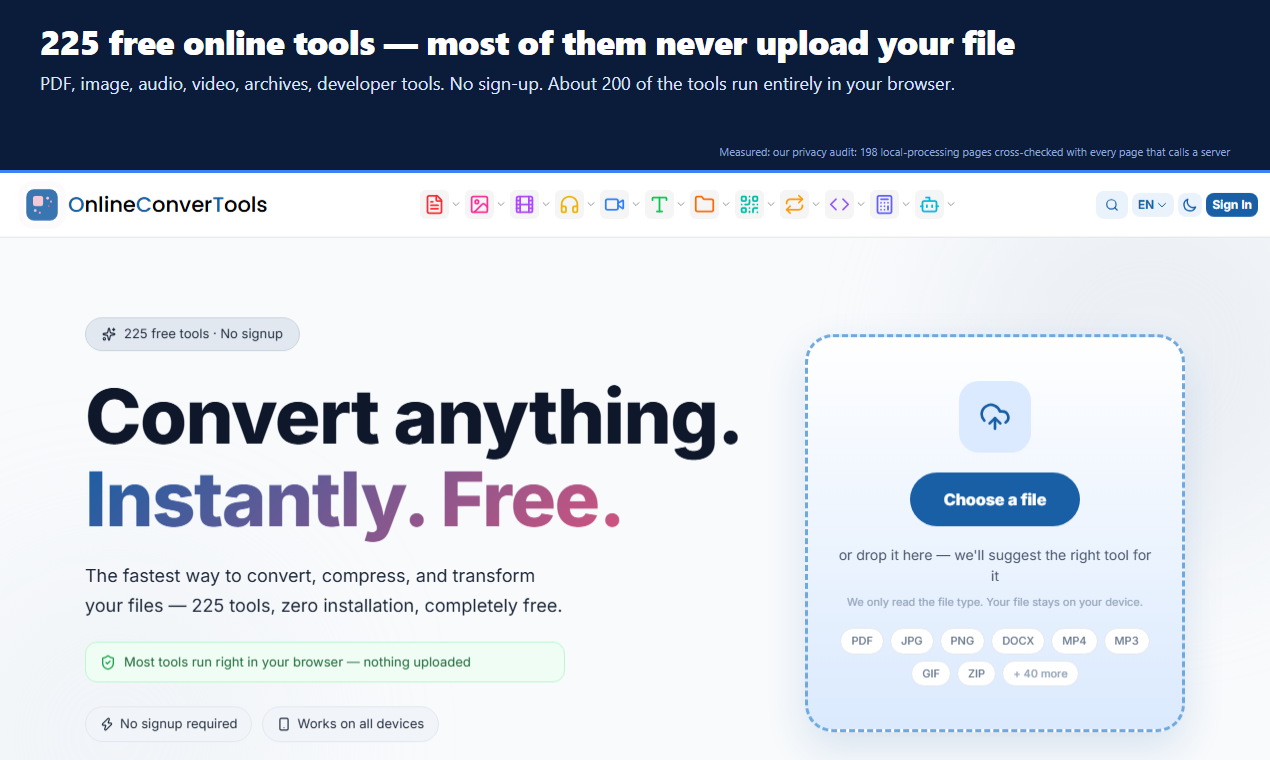
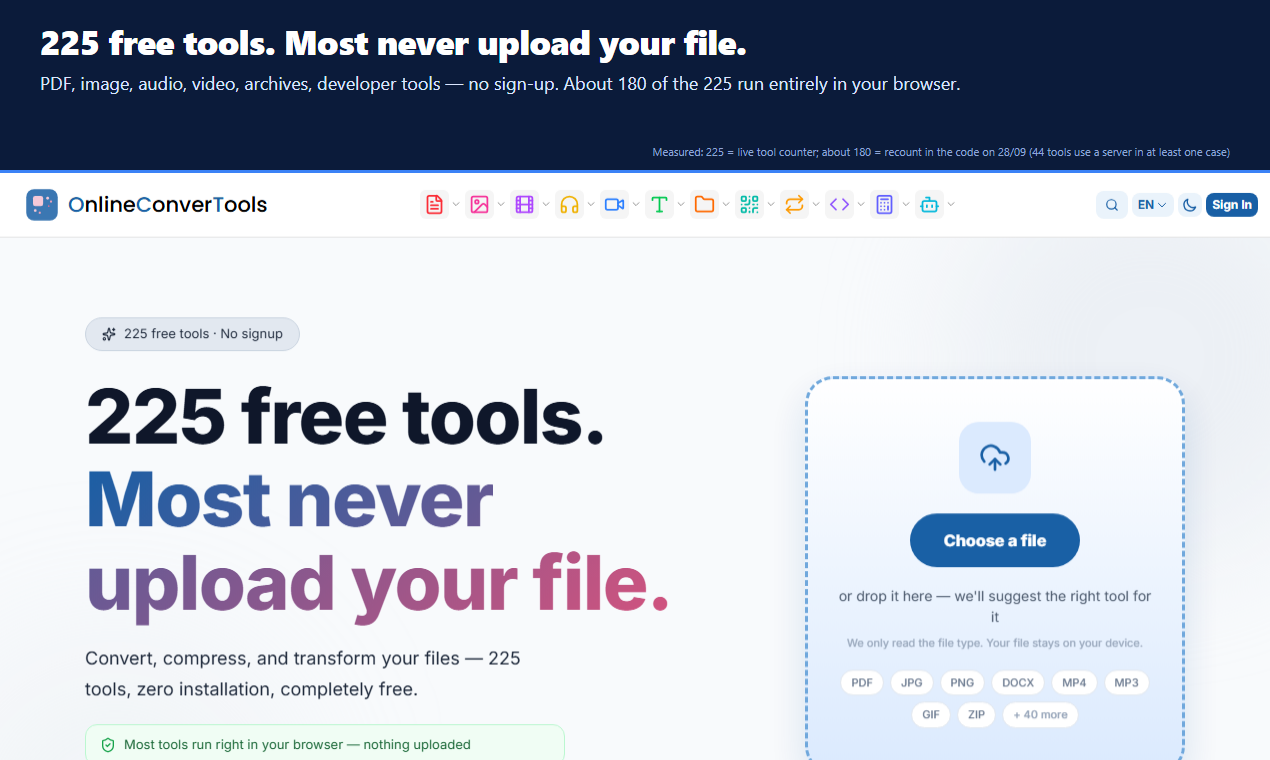
docs(lancement, point 2): kit Product Hunt prêt à l'emploi
Règles relues en direct (tagline 60, description 260/500 contradictoires → 227, galerie 1270×760, vignette 240×240, YouTube seul, 00 h 01 PT), 4 lancements comparables et leur moyen, textes anglais (tagline validée, description, premier commentaire avec passages personnels marqués, 8 légendes). Galerie refaite depuis le build local : 8 images dont la preuve « never upload » mesurée pendant la capture (0 requête d'envoi) et le compteur lu en direct (225).

diff --git a/docs/lancement/product-hunt.md b/docs/lancement/product-hunt.md
@@ -1,0 +1,107 @@
+# Kit Product Hunt — prêt à l'emploi (29/09/2026)
+
+**Document de contenu.** Il remplace `03-textes-en.md` (textes) et complète `01-recherche-lancements.md` (lancements de 2015-2026 déjà étudiés). Rien n'est publié. Les passages entre **⟦crochets doubles⟧** sont personnels : le propriétaire les écrit ou les ajuste, Claude n'a inventé aucun fait personnel. **Aucune date de lancement n'est proposée ici** (règle absolue du propriétaire : pas de date tant que le site n'est pas fiable à 100 % et audité).
+
+---
+
+## 1. Règles et formats actuels — relevés en direct le 29/09/2026
+
+Sources : **A** = `producthunt.com/launch/preparing-for-launch` (page officielle « Prepare for your launch ») ; **B** = `help.producthunt.com/en/articles/479557-how-to-post-a-product` (centre d'aide officiel).
+
+| Élément | Règle relevée | Ce que nous faisons |
+|---|---|---|
+| Nom | le nom du produit seul, **sans description ni émoji** (A, B) | `OnlineConverTools` |
+| Tagline | **60 caractères au plus** (A) ; « sans gimmick ni langage excessif » (A) | 44 caractères |
+| Description | **500** caractères (A) **ou 260** (B) : les deux pages officielles se contredisent toujours | **≤ 260** (tient dans les deux) : 227 |
+| Vignette | carrée, **240 × 240** recommandé, **< 3 Mo** ; GIF permis, s'anime au survol, première image = vignette (A, B) | `galerie/thumbnail.png` 240×240 |
+| Galerie | **1270 × 760** recommandé ; **au moins 2 images** pour que la fiche soit visible ; réordonnable ; GIF animés permis (A, B) | 8 images 1270×760, 71-200 Ko chacune |
+| Vidéo | **YouTube seulement**, adresse complète (pas de lien raccourci), vidéo non privée (A, B) ; ≈ 53 % des « produits du jour » depuis 2021 en avaient une (A) | **aucune pour l'instant** (voir §6) |
+| Premier commentaire | « très recommandé » ; **70 %** des produits du jour/semaine/mois en avaient un ; fonctionnalités, public, histoire, demande de retours ; **ne jamais demander de votes, demander des retours** (A) | brouillon §4 |
+| Heure | classement sur 24 h, **heure du Pacifique** ; lancer à **00 h 01 PST** (A, B) ; programmation jusqu'à **1 mois** à l'avance, ou brouillon (A, B) | 00 h 01 PT = **3 h 01 à Montréal** |
+| Jour | officiel : « quand vous êtes prêt », selon l'audience (A) ; étude tierce de 50 lancements (uprowshub.com, 2026) : **mardi 32 %** et **mercredi 26 %** des top 5 ; **0 % de top 5 après 6 h PT** | à choisir par le propriétaire le moment venu |
+| Topics | « quelques-uns, ceux qui collent le mieux » (B) ; 3 au plus (A, lu le 28/09) | Productivity, Developer Tools, Privacy |
+| Lien du produit | **pas de lien raccourci ni de paramètre de suivi (UTM)** (A) | `https://www.onlineconvertools.com` |
+| Doublon | ne pas republier le même produit sans changement **dans les 6 mois** (A) | premier lancement |
+
+## 2. Lancements comparables — ce qui a marché, et par quel moyen
+
+Complète le tableau de `01-recherche-lancements.md` (remove.bg, CloudConvert, Photopea, ezGIF…). Relevés sur les pages Product Hunt le 28-29/09/2026.
+
+| Produit | Date | Résultat | Moyen observé |
+|---|---|---|---|
+| **TabTasker** — « Zero servers. Total privacy. Your new favorite toolbox. » | 31/05/2026 | **n° 4 du jour, 236 points** | le traitement local EST l'argument, jusque dans la tagline ; le premier commentaire donne **une preuve que le lecteur peut refaire** (onglet Réseau : aucun envoi) et nomme la technique (WebAssembly, ONNX dans le navigateur) ; réponses techniques détaillées dans le fil ; 5 captures, **une par outil**, pas de vidéo |
+| **10015 Tools** — « All Online Tools in One Box » | 2024 | **n° 4 du jour, 307 points** | premier commentaire : **problème personnel** (outils en ligne mal faits) → boîte à outils faite pour soi → **chiffres d'audience réels** (350 000 visites/mois, 25 000 inscrits) ; argument : interface soignée ; 4 images, pas de vidéo |
+| **IT Tools** — « Collection of handy online tools for devs, with great UX » | 09/05/2022 | **n° 5 du jour, 144 points** | public étroit nommé (développeurs), « couteau suisse… par des développeurs » ; code ouvert ; 4 images |
+| **CompressImage.io** — « Reduce Image Size upto 90% in seconds. Free & Works Offline! » | 18/08/2022 | **n° 4 du jour, 254 votes** | un chiffre de résultat dans la tagline ; « hors ligne », « aucun envoi » ; premier commentaire : ce que fait l'outil → différences → « essayez » |
+| Étude de 50 lancements (uprowshub.com, 2026 — source tierce, non vérifiable) | — | — | premier commentaire détaillé et sincère : **+166 % de votes** en moyenne ; **6 captures ou plus** : 321 votes contre 198 ; vidéo : 384 contre 167 ; 89 % des top 5 : le fondateur **répond à chaque commentaire** ; 100 votes avant 4 h PT → 82 % de chances de finir dans le top 10 |
+
+**Ce que nous en retenons (décidé, conformément à la règle de décision) :**
+1. **Une collection plafonne vers la 4ᵉ place** (TabTasker, 10015, IT Tools, CompressImage : n° 4-5). Viser au moins ce niveau, avec l'argument qui a porté les deux lancements « navigateur » : **le traitement local, prouvé**.
+2. **Preuve vérifiable plutôt que promesse** (moyen de TabTasker) : notre image 2 affiche une mesure faite pendant la capture (aucune requête d'envoi pendant la compression) et invite à la refaire dans l'onglet Réseau. **Au-dessus de TabTasker** sur un point : nous ne disons pas « zéro serveur », parce que c'est faux pour 44 de nos outils ; nous disons lesquels en utilisent un.
+3. **Des résultats mesurés face à un concurrent nommé** dans chaque image (aucun des 4 lancements ne le fait) — c'est notre différence réelle.
+4. **8 images** (au-dessus du seuil de 6 de l'étude), **une par outil**, comme TabTasker.
+5. Premier commentaire sur le schéma gagnant : **problème personnel → ce qui est différent (preuves) → demande de retours**, sans demander de votes.
+6. **Répondre à chaque commentaire le jour même** : tâche du propriétaire (§6).
+
+## 3. Textes (anglais)
+
+**Name:** `OnlineConverTools`
+
+**Tagline (44/60):**
+> 225 free tools. Most never upload your file.
+
+*(Validée par le propriétaire le 28/09 ; identique au slogan de l'accueil. « 225 » = compteur gardé par le build ; « most » = ≈ 181 sur 225, recompté dans le code le 28/09.)*
+
+**Description (227/260):**
+> 225 free tools for PDF, images, audio, video, archives and developers, no sign-up. About 180 run entirely in your browser: the file never leaves your device. Our main tools are tested against the market leader on the same file.
+
+**Topics:** Productivity · Developer Tools · Privacy
+
+**Link:** `https://www.onlineconvertools.com` (sans UTM, règle A)
+
+## 4. Premier commentaire du fondateur — brouillon
+
+> Hi Product Hunt 👋
+>
+> ⟦**Your name, and one or two lines on who you are and why you started — in your own words. Nothing here was invented for you.**⟧
+>
+> Online converters all look alike, so I set myself one rule: each tool should do **at least as well as the site people usually use for that job, on the same file**. I've been testing them one by one — the most-used ones first — and where a tool still falls short or has a limit, its page says so before you pick a file. A few results so far:
+>
+> - **PDF compression**: the lossless level shrinks a 15-page paper by 35.4 %, every page pixel-identical to the original (iLovePDF "recommended": −35.0 %, with its images re-compressed).
+> - **Archives**: RAR, 7z, ZIP and 40+ formats open in the browser; on the same 1.99 GB RAR, the first file comes out in 5.1 s vs 7.25 s at ezyZip.
+> - **AI image upscaler**: closer to the real photo than iLoveIMG on our test (perceptual distance 0.107 vs 0.164), up to 6 megapixels — and on your own device when your browser supports WebGPU.
+> - **Barcodes**: 37 types, and every file is scanned back by an independent reader before you download it (102 of 102 in our test; barcode-maker.com: 65 of 68).
+> - **Hashes**: 17 algorithms; a 760 MiB file hashed in 11.7 s vs 31.8 s on the reference site.
+>
+> About 180 of the 225 tools run entirely in your browser — you can check it yourself in the Network tab: nothing is uploaded. The others (video conversion, Office ↔ PDF, AI tools) need a server; their pages say so.
+>
+> It's free and there's no sign-up. ⟦**Optional, your own words: what you plan next / how the site is funded.**⟧ I'd love to hear which tool you'd test against which site — and where we still fall short.
+
+*Sources (pour le propriétaire, pas pour publication) : `RAPPORT-ecarts-marche.md` §3a (PDF), §3c (agrandisseur), `RAPPORT-amelioration-15.md` (archives), `RAPPORT-amelioration-14.md` (codes-barres), `RAPPORT-ecarts-marche.md` (empreintes), `RAPPORT-global-28-09.md` points 3 et 6 (≈ 180, 6 Mpx, WebGPU).*
+*Retiré exprès : le correcteur de grammaire (25/25 en anglais, mais en dessous de LanguageTool en russe — l'honnêteté ne tient pas en une ligne) ; la vitesse de la conversion vidéo (plus rapide que FreeConvert et Convertio sur notre test, mais ils gardent plus de qualité dans des fichiers plus gros) ; tout ce qui concerne Safari tant que la passe réelle 9-30 n'est pas faite.*
+
+## 5. Galerie — ordre proposé et légendes
+
+Images : `docs/lancement/galerie/`, **1270 × 760**, captures Playwright du **build local** de `croissance-29-09` (même interface que le déploiement 2), régénérables en une commande : `node docs/lancement/galerie.mjs http://localhost:3100` (ou l'adresse www une fois déployé — **à refaire juste avant le lancement**, P5). Les chiffres du compteur et du réseau sont **mesurés pendant la capture** ; le script refuse d'écrire l'image 2 si une requête a transporté un corps.
+
+| Ordre | Image | Légende (champ Product Hunt) | Source du chiffre |
+|---|---|---|---|
+| 1 | `01-hero.png` (accueil) | 225 free tools, no sign-up — about 180 run entirely in your browser. | compteur `/api/tool-counts` lu à la capture ; recomptage du 28/09 |
+| 2 | `02-never-upload.png` (Image Compressor, vraie compression) | Compress an image here and watch your Network tab: nothing is uploaded. | mesuré pendant la capture : 0 requête d'envoi |
+| 3 | `03-all-tools.png` (/tools) | 225 tools in 12 categories: PDF, image, video, audio, archives, developer, AI… | compteur lu à la capture (57 · 39 · 37 · 17 · 16 · 15 · 11 · 11 · 9 · 6 · 4 · 3) |
+| 4 | `04-zip-extractor.png` (archive RAR ouverte) | RAR, 7z, ZIP and 40+ formats in the browser — first file out in 5.1 s vs 7.25 s at ezyZip (same 1.99 GB RAR). | `RAPPORT-amelioration-15.md` |
+| 5 | `05-pdf-compress.png` | Lossless PDF compression: −35.4 %, every page pixel-identical to the original. | `RAPPORT-ecarts-marche.md` §3a |
+| 6 | `06-image-upscaler.png` | AI upscaling ×2/×4 that stays closer to the real photo (LPIPS 0.107 vs 0.164 for iLoveIMG), up to 6 megapixels. | `RAPPORT-ecarts-marche.md` §3c ; 6 Mpx : `RAPPORT-global-28-09.md` |
+| 7 | `07-hash-generator.png` | 17 hash algorithms, files of any size, nothing uploaded — 760 MiB in 11.7 s vs 31.8 s. | `RAPPORT-ecarts-marche.md` |
+| 8 | `08-barcode-generator.png` | 37 barcode types; every file is scanned back by an independent reader before you download it. | `RAPPORT-amelioration-14.md` |
+| vignette | `thumbnail.png` 240×240 | — | — |
+
+**Pourquoi cet ordre :** l'image 1 sert aussi d'aperçu au partage (A) → la promesse entière ; l'image 2 la **prouve** (moyen de TabTasker) ; l'image 3 montre l'étendue ; 4 à 8 = un outil phare par image, chacun avec un résultat mesuré face à un concurrent nommé.
+
+## 6. Ce qui reste, pour le propriétaire (inscrit dans le plan)
+
+- **Relire et compléter le premier commentaire** (§4, passages ⟦…⟧).
+- **Choisir le jour** le moment venu (aucune date ici). Heure : **00 h 01 PT**.
+- Le jour J : **répondre à chaque commentaire** (89 % des top 5 le font, étude tierce).
+- **Régénérer la galerie sur www juste avant** (P5) : `node docs/lancement/galerie.mjs https://www.onlineconvertools.com`, puis vérifier les 8 images à l'œil.
+- *Facultatif :* une vidéo YouTube de 30-60 s (≈ 53 % des produits du jour en ont une) — exige une chaîne YouTube, donc un compte : non fait.

diff --git a/docs/lancement/03-textes-en.md b/docs/lancement/03-textes-en.md
@@ -1,5 +1,7 @@
 # Product Hunt — texts (DRAFT for the owner's review, nothing published)
 
+> **⚠ Remplacé le 29/09/2026 par `product-hunt.md`** (tagline validée, description ≤ 260, premier commentaire et légendes mis à jour, galerie de 8 images). Gardé pour l'historique.
+
 **Rule followed:** every claim below is a measurement written in our reports (source given in brackets, for you, not for publication). No "fastest", no "best", no promise that has no measurement behind it. Limits checked on Product Hunt's own pages on 28/09/2026: tagline ≤ 60 characters; description ≤ 260 characters (their two official pages disagree, 260 vs 500: 260 fits both); up to 3 topics; gallery 1270×760 (`docs/lancement/galerie/`, regenerated by `node docs/lancement/galerie.mjs`).
 
 ⚠ **Two things to check before publishing** (found while writing, not changed):
